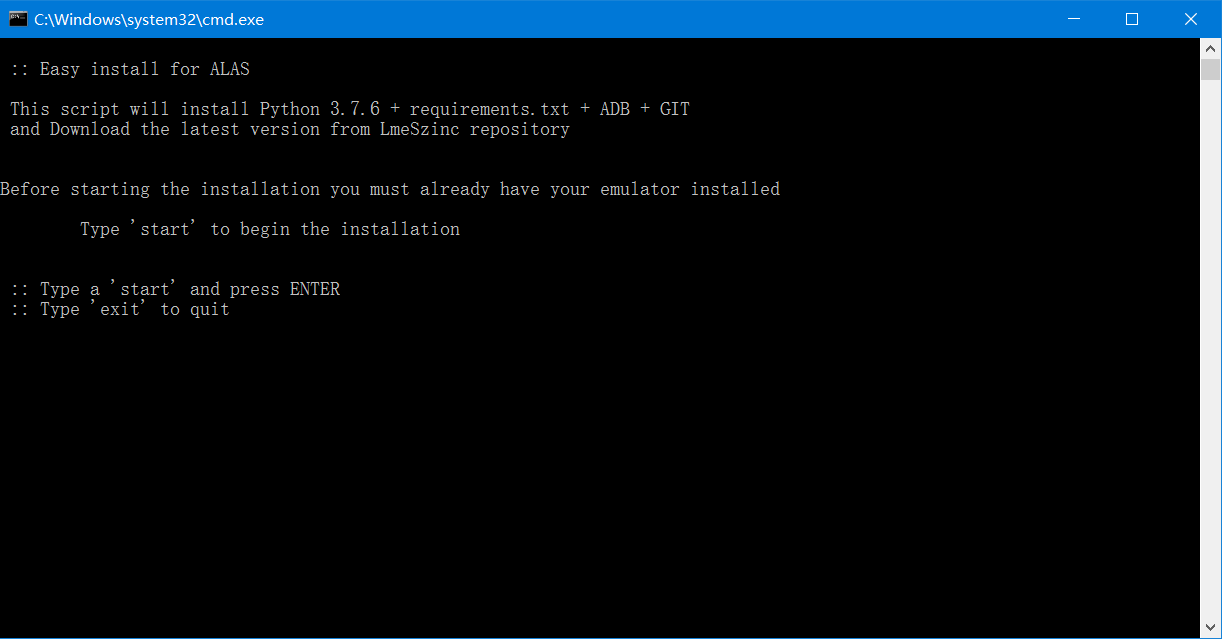
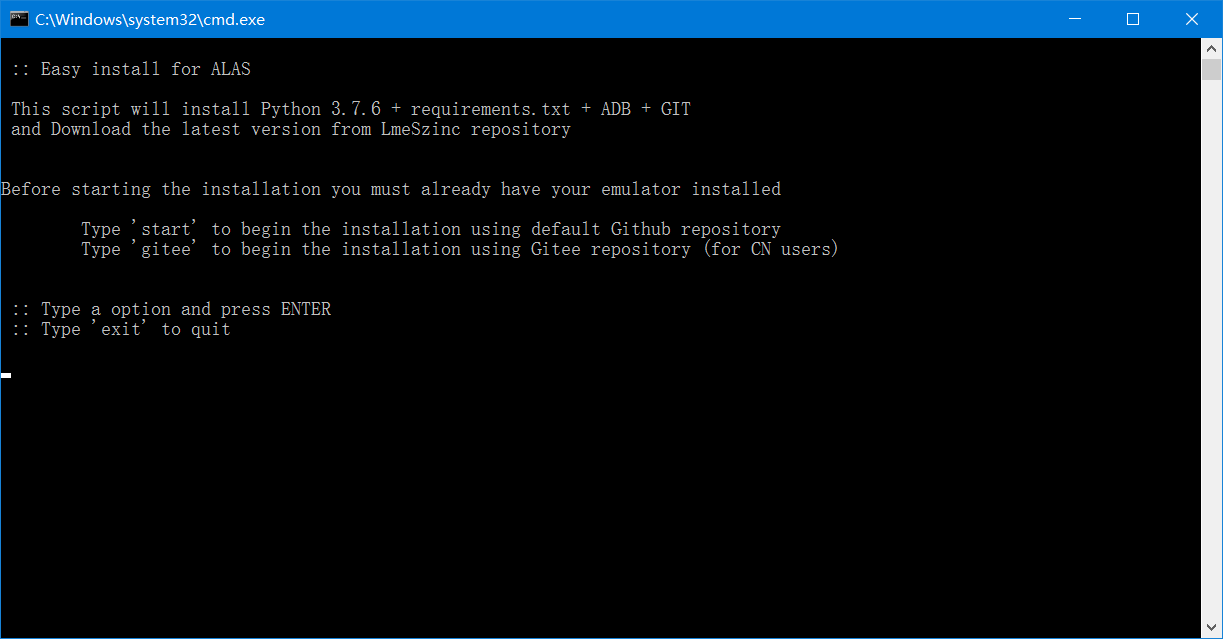
Doc: [CN] Update README.md

diff --git a/doc/Installation_cn.md b/doc/Installation_cn.md
@@ -26,7 +26,7 @@
 
    ![install_batch](Installation_cn.assets/install_batch.png)
 
-   准备完成后, 输入`start`, 然后按下回车键
+   准备完成后, 输入 `gitee` , 也就是从选择码云(gitee)镜像下载, 然后按下回车键
 
    当看到如下信息时, 说明安装成功
 
@@ -110,7 +110,7 @@
 
 ![alas_update](Installation_cn.assets/alas_update.png)
 
-国内用户按下数字键4, 选择从gitee镜像更新, 有能力的可以选择从github更新
+国内用户按下数字键4, 选择从gitee镜像更新
 
 然后按下回车键
 
